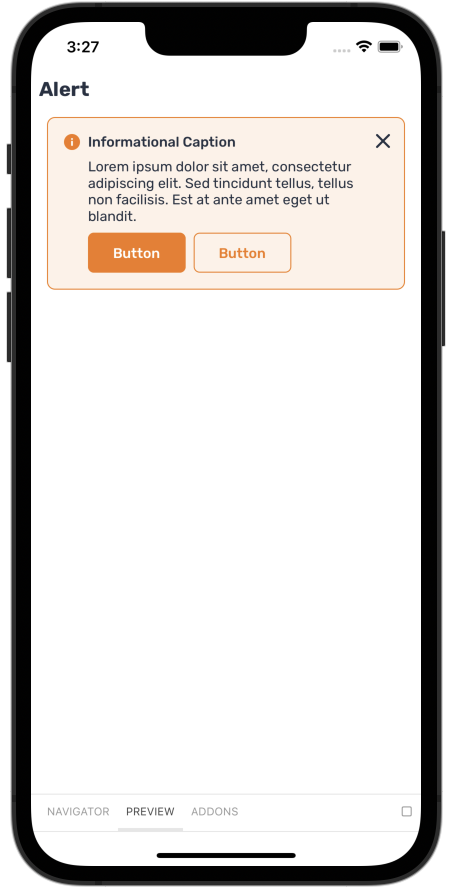
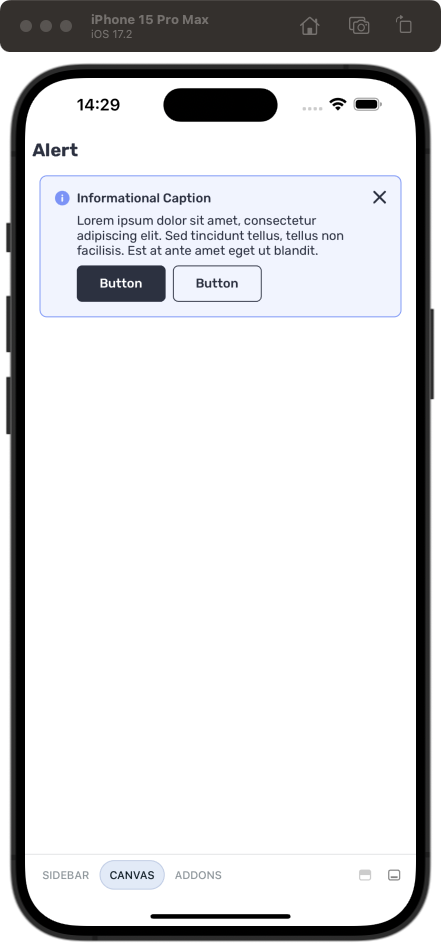
feat(alert): update info variant color

Changed region(s): [[0.0, 0.0, 1.0, 1.0], [0.8254, 0.9122, 0.8549, 0.9426]]

diff --git a/src/components/Alert/Alert.stories.tsx b/src/components/Alert/Alert.stories.tsx
@@ -43,8 +43,8 @@ export const Basic: AlertStory = args => {
       </Text>
       <Box px="m" py="2xs">
         <Alert {...state} onClose={() => setState({ ...state, closed: true })}>
-          <Button label="Button" />
-          <Button label="Button" variant="secondary" ml="2xs" />
+          <Button label="Button" kind="neutral" />
+          <Button label="Button" variant="secondary" kind="neutral" ml="2xs" />
         </Alert>
       </Box>
     </>
@@ -61,8 +61,8 @@ export const Variants: AlertStory = () => (
         caption="Informational Caption"
         description="Lorem ipsum dolor sit amet, consectetur adipiscing elit. Sed tincidunt tellus, tellus non facilisis. Est at ante amet eget ut blandit."
         closable={false}>
-        <Button label="Button" />
-        <Button label="Button" variant="secondary" ml="2xs" />
+        <Button label="Button" kind="neutral" />
+        <Button label="Button" variant="secondary" kind="neutral" ml="2xs" />
       </Alert>
     </Box>
     <Box px="m" py="2xs">
@@ -72,7 +72,7 @@ export const Variants: AlertStory = () => (
         variant="warning"
         closable={true}
         icon={false}>
-        <Button label="Button" />
+        <Button label="Button" kind="neutral" />
       </Alert>
     </Box>
     <Box px="m" py="2xs">
@@ -82,7 +82,7 @@ export const Variants: AlertStory = () => (
         variant="success"
         closable={false}
         icon={false}>
-        <Button label="Button" variant="secondary" />
+        <Button label="Button" variant="secondary" kind="success" />
       </Alert>
     </Box>
     <Box px="m" py="2xs">

diff --git a/src/theme.ts b/src/theme.ts
@@ -579,12 +579,12 @@ const theme = createTheme({
     defaults: {
       borderWidth: 1,
       borderRadius: 'l',
-      backgroundColor: 'accentBackground',
-      borderColor: 'primaryColor',
+      backgroundColor: 'infoContrast',
+      borderColor: 'infoKey',
     },
     info: {
-      backgroundColor: 'accentBackground',
-      borderColor: 'primaryColor',
+      backgroundColor: 'infoContrast',
+      borderColor: 'infoKey',
     },
     warning: {
       backgroundColor: 'warningBackground',

diff --git a/src/components/Alert/AlertIcon.tsx b/src/components/Alert/AlertIcon.tsx
@@ -27,7 +27,7 @@ export const AlertIcon = React.memo(
 
     const iconColor = React.useMemo(() => {
       return {
-        info: 'primaryKey',
+        info: 'infoKey',
         warning: 'warningKey',
         success: 'successKey',
         danger: 'dangerKey',

diff --git a/src/components/Alert/Alert.test.tsx b/src/components/Alert/Alert.test.tsx
@@ -51,6 +51,7 @@ describe('Alert', () => {
       <Alert testID="alert" description="description">
         <Button
           label="Button"
+          kind="neutral"
           testID="alert-child-button"
           onPress={mockOnPress}
         />
